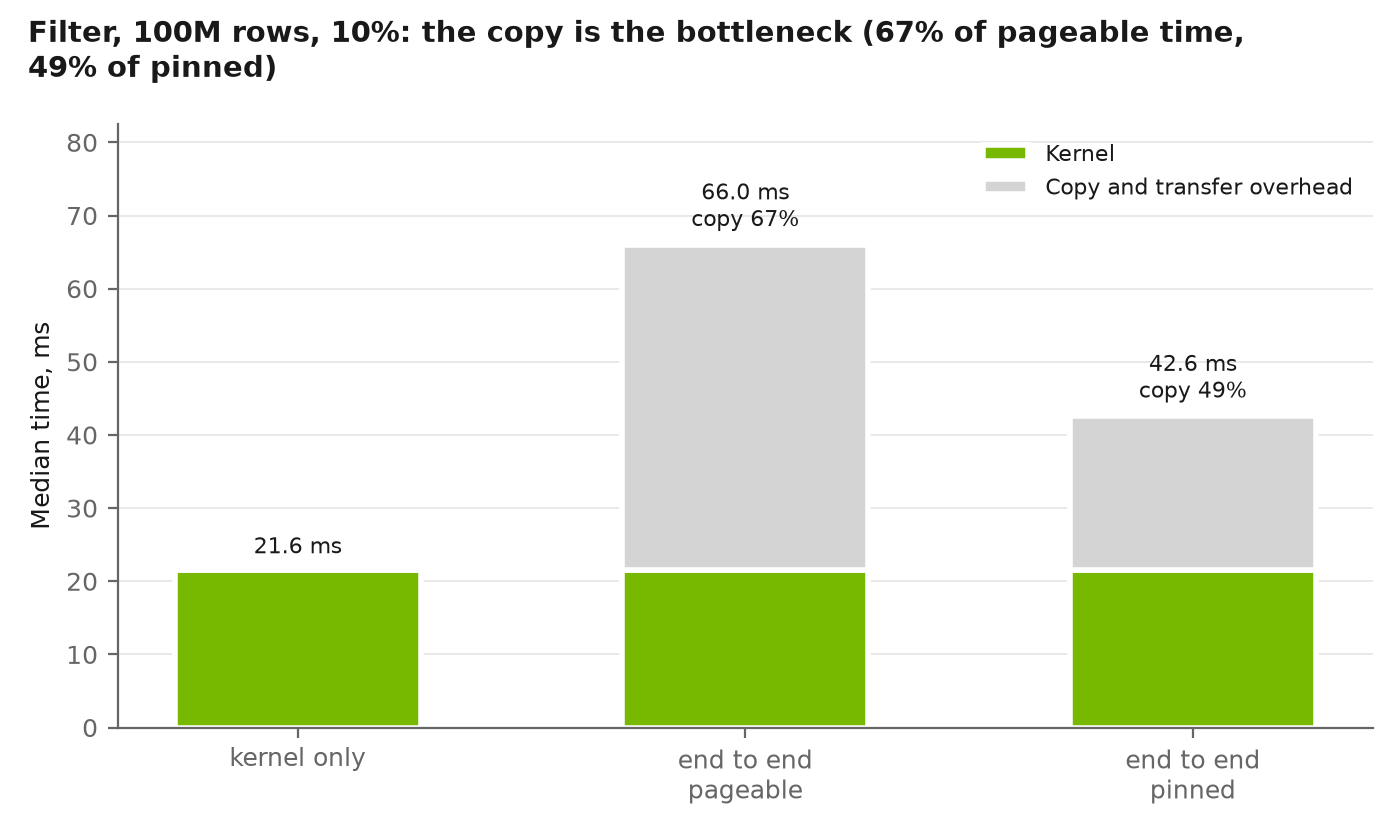
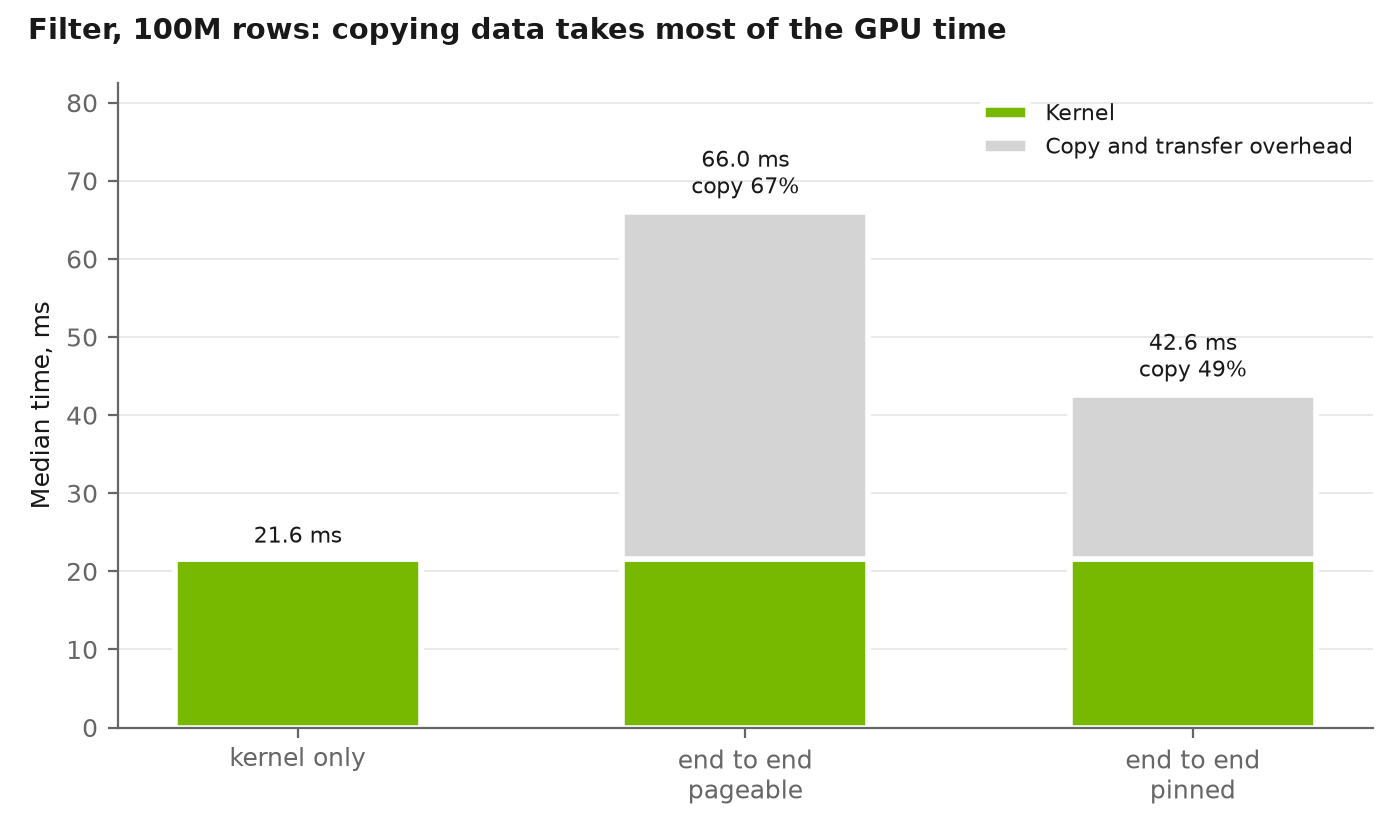
Clean up chart titles and redraw the Q1 chart

diff --git a/benchmarks/plot_q1.py b/benchmarks/plot_q1.py
@@ -1,45 +1,61 @@
 """Make docs/figures/tpch_q1.png from results/tpch_q1.csv, in the style of plot.py.
 
+Two panels (SF1, SF10) of horizontal bars, one bar per engine, fastest at the top.
+CPU engines use the narrow columns, like q1_v3; the wide CPU times stay in the README text.
+
 Run from the project root:  python -m benchmarks.plot_q1
 """
 import matplotlib.pyplot as plt
 from matplotlib.ticker import FuncFormatter
 
-from benchmarks.plot import LABEL, line, load, plain_fmt, save
+from benchmarks.plot import COLOR, LABEL, load, plain_fmt, save
+
+# (engine, mode, label, colour, hatched). Hatched = kernel only (no copies), as in plot.py
+# where texture, not a second hue, separates two results of the same engine.
+# q1_v2 gets a lighter green so the two solid end-to-end GPU bars differ by more than their label.
+GPU_LIGHT = "#b9dd85"
+BARS = [
+    ("gpu_q1_v3", "kernel_only", "q1_v3 kernel only", COLOR["gpu"], True),
+    ("gpu_q1_v3", "e2e_pinned", "q1_v3 end to end", COLOR["gpu"], False),
+    ("gpu_q1_v2", "e2e_pinned", "q1_v2 end to end (wide)", GPU_LIGHT, False),
+    ("polars_narrow", "cpu", LABEL["polars"], COLOR["polars"], False),
+    ("duckdb_narrow", "cpu", LABEL["duckdb"], COLOR["duckdb"], False),
+    ("pandas_narrow", "cpu", LABEL["pandas"], COLOR["pandas"], False),
+]
+
+
+def ms_fmt(t):
+    return f"{t:,.1f} ms"  # one decimal, as in the README
 
 
 def tpch_q1(q):
     sfs = sorted({int(k[0]) for k in q})
     rows = {int(k[0]): int(k[1]) for k in q}
-    ms = lambda e, m: [q[next(k for k in q if int(k[0]) == sf and k[2] == e and k[3] == m)]
-                       for sf in sfs]
-    fig, ax = plt.subplots(figsize=(8, 4.6))
-    ends = []
-    for e in ("pandas", "polars", "duckdb"):
-        ends.append(line(ax, sfs, ms(e, "cpu"), e, LABEL[e]))
-        # narrow columns: same colour, dotted and hollow, so it differs from wide by style
-        ends.append(line(ax, sfs, ms(f"{e}_narrow", "cpu"), e, f"{LABEL[e]} narrow", hollow=True))
-        ax.lines[-1].set(ls=":")
-    for k, name in (("v2", "q1_v2 (wide)"), ("v3", "q1_v3 (narrow)")):
-        e = f"gpu_q1_{k}"
-        ends.append(line(ax, sfs, ms(e, "e2e_pinned"), "gpu", f"{name} end to end (pinned)"))
-        if k == "v3":  # new kernel: dash-dot, so it differs from v2 by line style
-            ax.lines[-1].set(ls="-.")
-        ends.append(line(ax, sfs, ms(e, "kernel_only"), "gpu", f"{name} kernel only", hollow=True))
-        if k == "v3":
-            ax.lines[-1].set(ls="-.")
-    ax.set(xscale="log", yscale="log", xlabel="TPC-H scale factor (lineitem rows)",
-           ylabel="Median time, ms (log scale)")
-    ax.set_xticks(sfs, [f"SF{sf}\n{rows[sf] / 1e6:.1f}M rows" for sf in sfs])
-    ax.minorticks_off()
-    ax.yaxis.set_major_formatter(FuncFormatter(plain_fmt))
-    ax.set_xlim(sfs[0] / 1.6, sfs[-1] * 3.2)  # room for the end labels
-    best = [min(a, b) for a, b in zip(ms("polars_narrow", "cpu"), ms("duckdb_narrow", "cpu"))]
-    sp = [b / g for b, g in zip(best, ms("gpu_q1_v3", "e2e_pinned"))]
-    kx = [a / b for a, b in zip(ms("gpu_q1_v2", "kernel_only"), ms("gpu_q1_v3", "kernel_only"))]
-    save(fig, "tpch_q1.png", f"TPC-H Q1 on narrow columns: q1_v3 end to end (pinned) beats the "
-         f"fastest CPU engine by {sp[0]:.1f}x at SF{sfs[0]} and {sp[-1]:.1f}x at SF{sfs[-1]}; "
-         f"its kernel is {kx[-1]:.1f}x faster than q1_v2 at SF{sfs[-1]}", (ax, ends))
+    get = lambda sf, e, m: q[next(k for k in q if int(k[0]) == sf and k[2] == e and k[3] == m)]
+    # one engine order for both panels: fastest at the top, by the largest scale factor
+    order = sorted(BARS, key=lambda b: get(sfs[-1], b[0], b[1]))
+    fig, axes = plt.subplots(1, len(sfs), figsize=(9, 3.9), sharey=True)
+    hi = max(get(sf, b[0], b[1]) for sf in sfs for b in BARS)
+    lo = min(get(sf, b[0], b[1]) for sf in sfs for b in BARS)
+    for ax, sf in zip(axes, sfs):
+        ys = range(len(order))
+        ts = [get(sf, b[0], b[1]) for b in order]
+        for y, t, b in zip(ys, ts, order):
+            ax.barh(y, t, height=0.62, color=b[3], hatch="//" if b[4] else None,
+                    edgecolor="white", linewidth=1.5)
+            ax.annotate(ms_fmt(t), (t, y), xytext=(4, 0), textcoords="offset points",
+                        va="center", fontsize=8)
+        ax.set_xscale("log")
+        ax.set_xlim(lo / 2, hi * 6)  # room for the value labels
+        ax.xaxis.set_major_formatter(FuncFormatter(plain_fmt))
+        ax.minorticks_off()
+        ax.grid(axis="y", visible=False)
+        ax.set_title(f"SF{sf} ({rows[sf] / 1e6:.1f}M rows)", fontsize=9.5, loc="left")
+        ax.set_xlabel("Median time, ms (log scale)")
+    axes[0].set_yticks(list(range(len(order))), [b[2] for b in order])
+    axes[0].invert_yaxis()  # fastest at the top
+    axes[0].tick_params(axis="y", length=0)
+    save(fig, "tpch_q1.png", "TPC-H Q1, narrow columns: median time by engine")
 
 
 if __name__ == "__main__":

diff --git a/benchmarks/plot.py b/benchmarks/plot.py
@@ -99,8 +99,7 @@ def filter_crossover(f):
     ax.yaxis.set_major_formatter(FuncFormatter(plain_fmt))
     ax.set_xticks(sizes)
     ax.set_xlim(right=sizes[-1] * 3.2)  # room for the end labels
-    save(fig, "filter_crossover.png", "Filter, 10% selectivity: GPU beats pandas and DuckDB at "
-         "every size. Pinned and pageable beat Polars only at 1M rows",
+    save(fig, "filter_crossover.png", "Filter, 10% of rows passing: Polars is fastest from 10M rows",
          (ax, ends))
 
 
@@ -125,9 +124,7 @@ def filter_time_split(f):
     ax.set(ylabel="Median time, ms", ylim=(0, max(totals) * 1.25))
     ax.grid(axis="x", visible=False)
     ax.legend(loc="upper right", fontsize=8)
-    pg, pn = copies[1] / totals[1], copies[2] / totals[2]
-    save(fig, "filter_time_split.png", f"Filter, 100M rows, 10%: the copy is the bottleneck "
-         f"({pg:.0%} of pageable time, {pn:.0%} of pinned)")
+    save(fig, "filter_time_split.png", "Filter, 100M rows: copying data takes most of the GPU time")
 
 
 def groupby_by_groups(g):
@@ -144,8 +141,7 @@ def groupby_by_groups(g):
     ax.xaxis.set_major_formatter(FuncFormatter(plain_fmt))
     ax.yaxis.set_major_formatter(FuncFormatter(plain_fmt))
     ax.set_xlim(5, 2e7)  # room for the end labels
-    save(fig, "groupby_by_groups.png", "Group-by, 100M rows, uniform keys: GPU block beats every "
-         "CPU engine at all group counts; global loses to Polars at 10", (ax, ends))
+    save(fig, "groupby_by_groups.png", "Group-by, 100M rows: the GPU block strategy beats every CPU engine", (ax, ends))
 
 
 def groupby_block_speedup(g):
@@ -168,8 +164,7 @@ def groupby_block_speedup(g):
            ylabel="Speedup of block over global, x (kernel only)")
     ax.grid(axis="x", visible=False)
     ax.legend(loc="upper right", fontsize=8)
-    save(fig, "groupby_block_speedup.png", "Group-by, 100M rows: block is 5-6x faster at 10 "
-         "groups, but about 4% slower than global at 1M uniform groups")
+    save(fig, "groupby_block_speedup.png", "Group-by, 100M rows: block vs global strategy (kernel only)")
 
 
 def main():

diff --git a/docs/decisions.md b/docs/decisions.md
@@ -39,7 +39,7 @@
 - `q1_v2` grid = SMs x blocks per SM from the occupancy API (26 x 2 = 52 blocks of 256). More blocks only add flushes; the grid-stride loop covers all rows.
 - `q1_v2` layout: all 36 totals in each thread, not only the totals of a subset of groups. It uses 96 registers with no spill, and it is correct for any mix of the 6 group ids. The cost is 33% occupancy.
 - `q1_v1` stays in `engine/q1.py` and in the tests and CSV, as the before point. `kernel="v1"` stays the default, so old calls do not change.
-- Charts (`plot_q1.py`, v1.2.0): GPU `q1_v2` lines solid, `q1_v3` lines dash-dot, both GPU green and 2.5 wide; e2e pinned markers filled, kernel only markers hollow. CPU engines on wide columns dashed with filled markers, on narrow columns dotted with hollow markers. `q1_v1` is no longer drawn (it stays in the CSV).
+- Charts (`plot_q1.py`, after v1.2.0): horizontal bars in two panels (SF1, SF10), one bar per engine, fastest at the top, value in ms at each bar end, log x-axis. CPU engines on narrow columns only (the wide CPU times differ by 11% or less and their lines hid the narrow ones); the wide times stay in the README text. GPU bars green: `q1_v3` end to end solid #76b900, `q1_v3` kernel only #76b900 hatched, `q1_v2` end to end lighter green #b9dd85, so the two solid end-to-end GPU bars differ by more than their label. `q1_v1` is not drawn (it stays in the CSV). All five chart titles shortened to one line.
 - Q1 narrow types (v1.2.0): after `q1_v2` the copy was 43.0 of 54.3 ms at SF10, so fewer bytes was the next step. price int32 cents, qty uint8 whole units (x100 when the block flushes), disc and tax uint8 hundredths, ship uint16 days since 1992-01-02 (SHIP_BASE 8036), gid uint8. `narrow()` raises ValueError if a value does not fit, so no silent wrap.
 - `q1_v3` loads 4 rows per thread per step: int4 for price, uint2 for ship, one u32 for each 1-byte column. A one-row tail loop does the last n % 4 rows. The wrapper checks dtypes, contiguity and alignment (price 16 bytes, ship 8, the rest 4).
 - `q1_v3` uses `__launch_bounds__(256, 2)`: 128 registers and 776 bytes of local memory, 2 blocks per SM, 4.54 ms. Without it: 156 registers, 1 block per SM, 5.71 ms (scratch runs). ncu counts 0 local spill requests.
